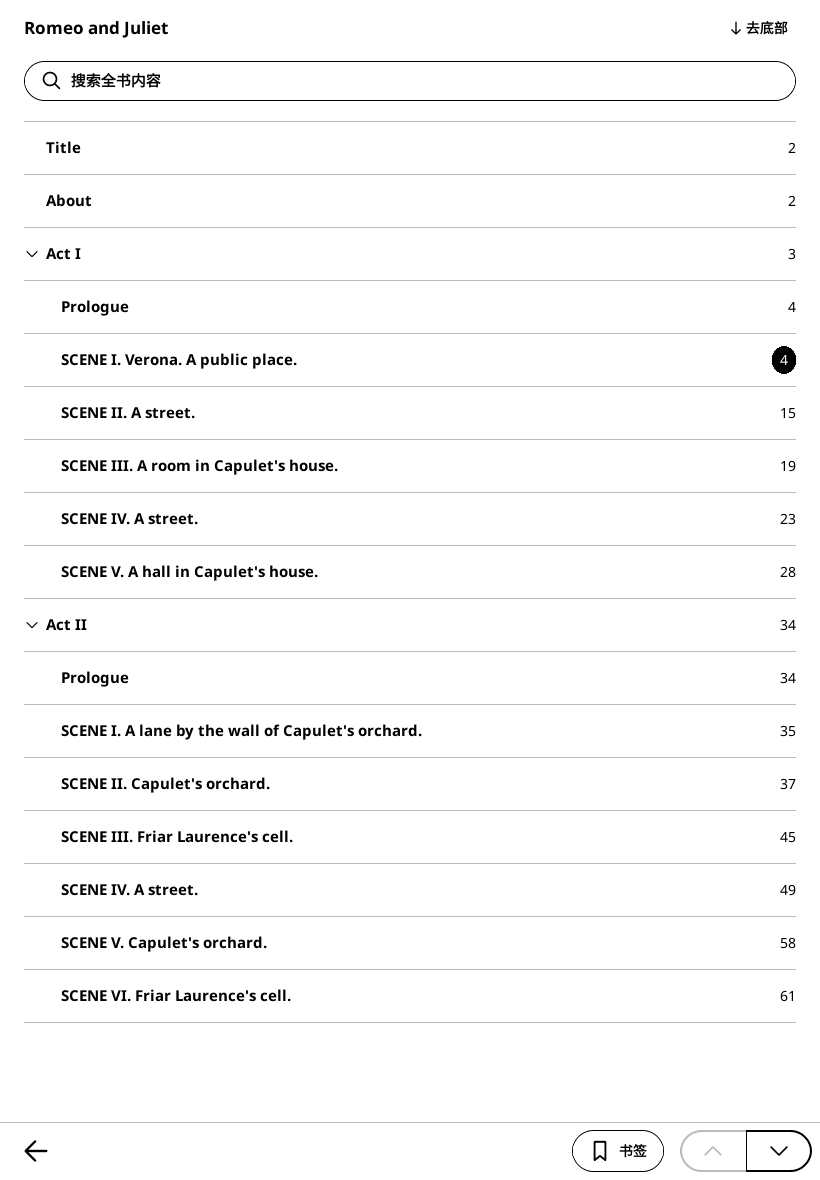
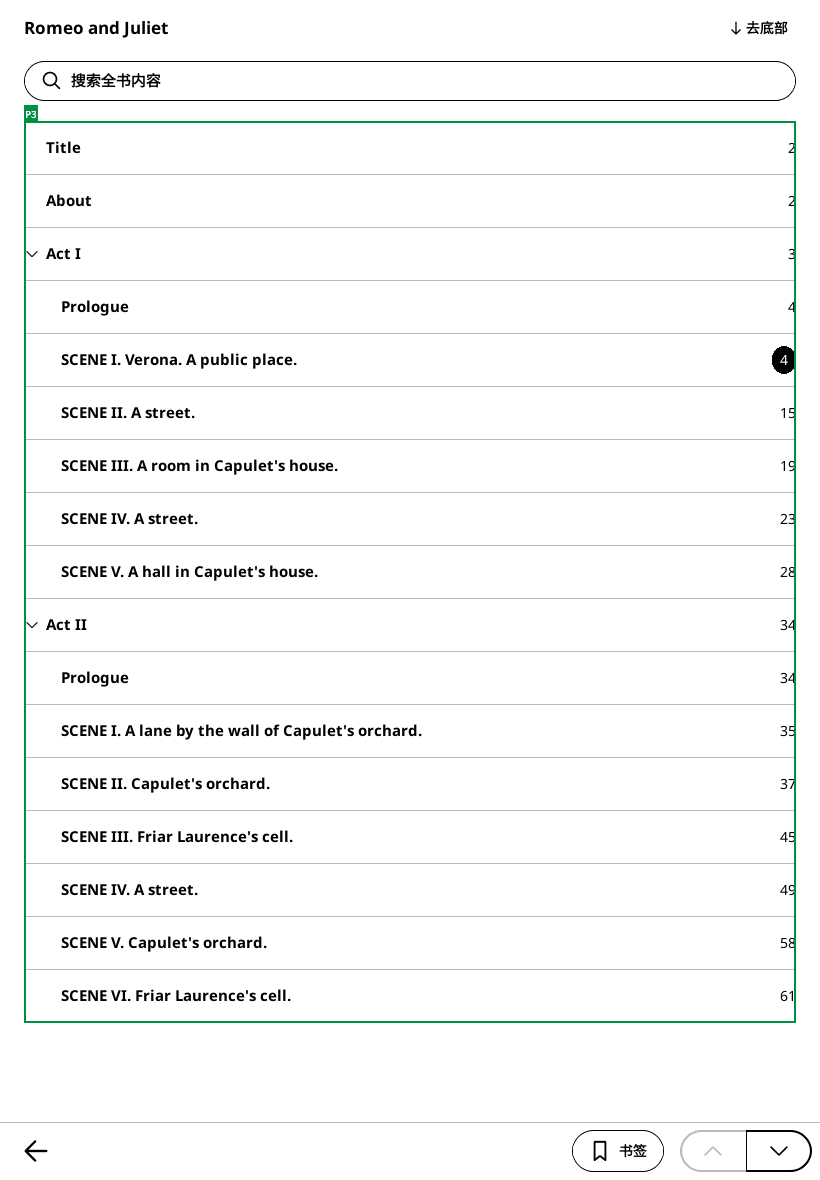
docs(ios): mark the 书源 two-line title truncation at 390 (#87 review 1)
Audit TextBoxWidget truncation too (ellipsis on the last line, or lines past
the height dropped), box the truncated 书源 title at 390, frame P3 on the
820 contents page, call the 820 pages that fit naturally converged, and note
how R1 meets gridGeometry's cover shrink.

Changed region(s): [[0.0305, 0.0915, 0.061, 0.122]]

diff --git a/doc/ios/narrow-screen-survey.md b/doc/ios/narrow-screen-survey.md
@@ -10,7 +10,7 @@ issue #87 的交付物。在 390×844 和 820×1180 两个尺寸、1dp = 1px 下
 - **尺寸和 dp**：dummy framebuffer 改为 W×H，`scaleBySize` 和 `scaleByDPI` 在加载 `ui/size` 和字体之前打成恒等，所以 1dp = 1px。`getDPI()` 保持默认的 160，下文"DPI 依赖"一节会说明它对列数的影响。
 - **界面语言**：zh_CN，用的是 master 锁定的 l10n 提交 `940ddc4`。
 - **数据**：14 本中文书名的书，书名长短不一，含两个英文书名；书架上的封面是没有缓存时的文字封面。阅读页类页面用 `juliet.epub` 的第 10 页，笔记页先划两条线。进度面板灌了偏长的数值（阅读 123.4 小时、约 327 小时后读完、1234 条笔记）来压测三列。书源接一个本地 stub 的 Calibre-Web 风格 feed，有 40 本书和缩略图，另附一张没有书源时的空状态截图，不计入那十张。
-- **标注**：脚本记录最后一次全屏重绘里每个 widget 的位置和大小，自动初筛三类问题：越出屏幕的、`TextWidget` 被截断的、可点组件宽或高不足 44dp 的。初筛结果逐条人工核对过，误报已从截图里删掉（见文末"已排除的误报"）。另外手工加了两类框：规则项和 iPad 观察项。
+- **标注**：脚本记录最后一次全屏重绘里每个 widget 的位置和大小，自动初筛三类问题：越出屏幕的、被截断的、可点组件宽或高不足 44dp 的。截断最初只查单行 `TextWidget`（`_is_truncated`），漏掉了限高的多行 `TextBoxWidget`（书源的两行书名就是这种）。第 1 轮审查后补上了：最后一行带省略号（`line_with_ellipsis`）的，以及超出限高、多余行被直接丢掉的，都算截断。补查后 390 和 820 只多出一处，即 390 书源的书名 **2**。其余 390 截图里的多行文字（目录的长章节名、笔记卡、导入页说明、文字封面）也逐张目视核对过，都完整显示。初筛结果逐条人工核对过，误报已从截图里删掉（见文末"已排除的误报"）。另外手工加了两类框：规则项和 iPad 观察项。
 - **对照**：同一脚本另渲染了 600×800、约 142dpi 的 Leaf5 等效尺寸作为对照，只用来区分"窄屏才有"和"墨水屏上本来就有"，这些图不提交。
 
 图例：🟥 溢出 · 🟧 截断 · 🟦 触控目标 < 44dp · 🟪 R*n* 规则项 · 🟩 P*n* iPad 观察项。截图里的数字和下文条目一一对应。
@@ -27,7 +27,7 @@ issue #87 的交付物。在 390×844 和 820×1180 两个尺寸、1dp = 1px 下
 | 进度面板 | ![390 进度面板](narrow-screen-survey/390-progress.png) | **自然收敛**。三列每列 114dp。压测数值（123.4 小时、约 327 小时后读完、1234 条）都放得下，最长的是估算行，约 105dp。按当前字号推算，宽度低于约 361dp 才会开始截断，比现有最窄的 iPhone（375pt）还窄。 |
 | 目录页 | ![390 目录页](narrow-screen-survey/390-toc.png) | **自然收敛**。长章节名折成两行，页码右对齐。搜索框 342dp。底栏的返回、书签、翻页都放得下。 |
 | 笔记页 | ![390 笔记页](narrow-screen-survey/390-notes.png) | **自然收敛**。约 416dp 的卡片列收到 346dp，概览卡和笔记卡都放得下。 |
-| 书源 | ![390 书源](narrow-screen-survey/390-sources.png) | **R1** 封面网格：3 列，封面 100×133dp。Leaf5 上是 4 列 123×164dp，降幅和书架相同。<br>**1** 书源搜索框只有 40dp 高，可点区域也是 40dp：`buildSearch` 用 `Tappable` 包住 40dp 的框，没有走同文件的 `tallTarget`。这和宽度无关，600、820 宽也一样，归入下文"既有的触控目标不足"。<br>搜索框宽 288dp 加分类按钮 44dp，放得下：**自然收敛**。 |
+| 书源 | ![390 书源](narrow-screen-survey/390-sources.png) | **R1** 封面网格：3 列，封面 100×133dp。Leaf5 上是 4 列 123×164dp，降幅和书架相同。<br>**2** "追忆似水年华 第一卷 在斯万家那边"：两行书名在 100dp 宽下放不下，第二行末尾被省略。820 宽同一书名完整折成两行，Leaf5 对照的 123dp 下也完整，所以是宽度导致的截断，R1 恢复 123dp 后就会消失。<br>**1** 书源搜索框只有 40dp 高，可点区域也是 40dp：`buildSearch` 用 `Tappable` 包住 40dp 的框，没有走同文件的 `tallTarget`。这和宽度无关，600、820 宽也一样，归入下文"既有的触控目标不足"。<br>搜索框宽 288dp 加分类按钮 44dp，放得下：**自然收敛**。 |
 | 我 | ![390 我](narrow-screen-survey/390-me.png) | **1** "文件"行的主目录路径单行截断：这是设计（行内副标题省略），600 宽同样会截。<br>其余六行、圆形图标、底部标签都放得下：**自然收敛**。 |
 
 附：书源空状态 ![390 书源空状态](narrow-screen-survey/390-sources-empty.png)。**1** "添加书源"是 40dp 高的 `PillButton`，可点区域就是它的框。这和宽度无关，归入下文"既有的触控目标不足"。
@@ -38,11 +38,11 @@ issue #87 的交付物。在 390×844 和 820×1180 两个尺寸、1dp = 1px 下
 |---|---|---|
 | 书架 | ![820 书架](narrow-screen-survey/820-shelf.png) | **P1** 封面网格：4 列，封面 176×255dp，是参考的 1.43 倍。<br>**1** 书名单行截断（设计内）。 |
 | 导入页 | ![820 导入页](narrow-screen-survey/820-import.png) | **P5** 458dp 的卡片居中，两侧各留约 180dp 空白。这是设计行为（"最宽 458dp"）。 |
-| 阅读页 | ![820 阅读页](narrow-screen-survey/820-reader.png) | 能放下。**P6** 行长：刚打开的书一行约 40 个汉字，见下文。 |
+| 阅读页 | ![820 阅读页](narrow-screen-survey/820-reader.png) | **自然收敛**。**P6** 行长：刚打开的书一行约 40 个汉字，见下文。截图里是诗行，看不出行长，所以没有画框。 |
 | 工具栏 | ![820 工具栏](narrow-screen-survey/820-toolbar.png) | **P4** 底栏五个图标均分 820dp，间距约 180dp，两两相距很远。 |
 | 排版面板 | ![820 排版面板](narrow-screen-survey/820-typeset.png) | **P2** 字体网格到了 5 列上限，卡片被拉到约 150dp（600 宽是 106dp）。<br>**1–2** 长字体名截断（设计内，600 宽也有）。<br>轨道档位间距 66–99dp，比参考宽，没有问题。 |
-| 进度面板 | ![820 进度面板](narrow-screen-survey/820-progress.png) | 放得下。三列各约 258dp，进度轨道横跨 776dp。 |
-| 目录页 | ![820 目录页](narrow-screen-survey/820-toc.png) | 放得下。**P3** 行长 776dp，页码离章节名很远。 |
+| 进度面板 | ![820 进度面板](narrow-screen-survey/820-progress.png) | **自然收敛**。三列各约 258dp，进度轨道横跨 776dp。 |
+| 目录页 | ![820 目录页](narrow-screen-survey/820-toc.png) | **自然收敛**。**P3** 行长 776dp，页码离章节名很远。 |
 | 笔记页 | ![820 笔记页](narrow-screen-survey/820-notes.png) | **P5** 416dp 的卡片列居中，两侧各留约 200dp 空白。这是设计行为。 |
 | 书源 | ![820 书源](narrow-screen-survey/820-sources.png) | **P1** 封面网格：4 列，封面 178×237dp。<br>**1** 搜索框 40dp（既有，同 390）。 |
 | 我 | ![820 我](narrow-screen-survey/820-me.png) | **P3** 六行各 776dp 宽，右侧箭头离标题很远。<br>**1** 主目录路径截断（设计内）。 |
@@ -58,6 +58,7 @@ issue #87 的交付物。在 390×844 和 820×1180 两个尺寸、1dp = 1px 下
 - **现状**：两处都用 `ShelfWidgets.columnCount()` 定列数，依据是物理英寸 `getWidth() / getDPI()`：小于 3.9 英寸 3 列，小于 5.2 英寸 4 列，否则 5 列。然后用 `(内宽 − 列间距) / 列数` 反算封面宽。窄屏上无论 DPI 怎么定，都会落到 3 列，两处的封面都被压到 100dp 宽。
 - **触发宽度**：3 列 123dp 封面需要 W ≥ 3×123 + 2×22 + 2×22 = **457dp**（书源的间距和边距是 20/24dp，算出来也约 457dp）。W < 457dp 时封面会被压缩。
 - **规则**：W < 457dp 时，列数按宽度算，不再按英寸算，即 `max(2, floor((W − 2×边距 + 列间距) / (123 + 列间距)))`。封面保持 123×178dp（书源是 123×164），余量平均分到两侧边距。390 宽得到 2 列，边距约 61dp。
+- **和书源缩放规则的关系**：书源的 `gridGeometry`（`shelfwidgets.lua:103-108`）会在能多放一行时缩小封面：不到两行时最多缩到列宽的 3/4，否则最多缩到 0.85。B4 落地 R1 时，要么让这条缩放和"封面保持 123dp"共存（缩放后不低于 123dp），要么在窄屏把它关掉。
 - **代价**：390 宽每页从 9 本（3×3）降到约 4 本（2×2 加 peek）。如果 B4 认为密度更重要，替代方案是保留 3 列，接受封面缩到 0.81 倍。但那等于在窄屏改组件尺寸，偏离 Proportion Rule，需要 owner 拍板。
 
 ### R2 排版面板轨道的档位间距（字号、字重、行距、边距）
